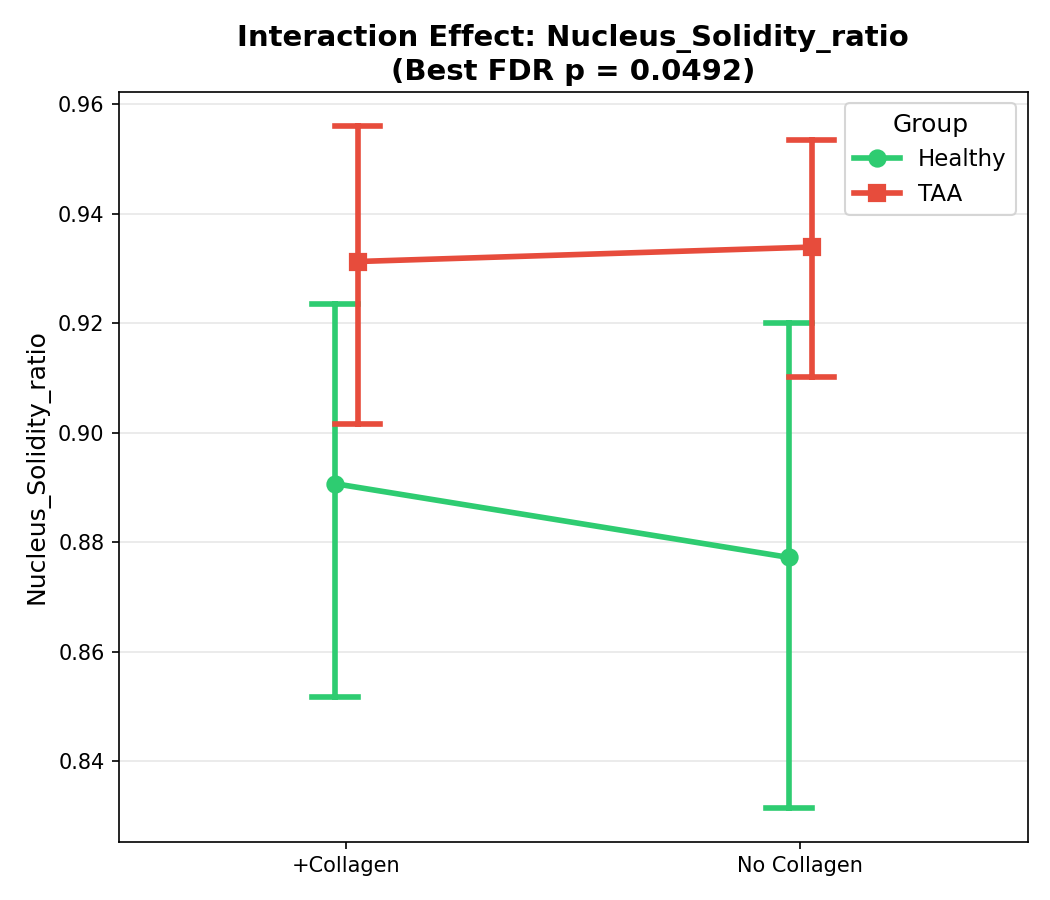
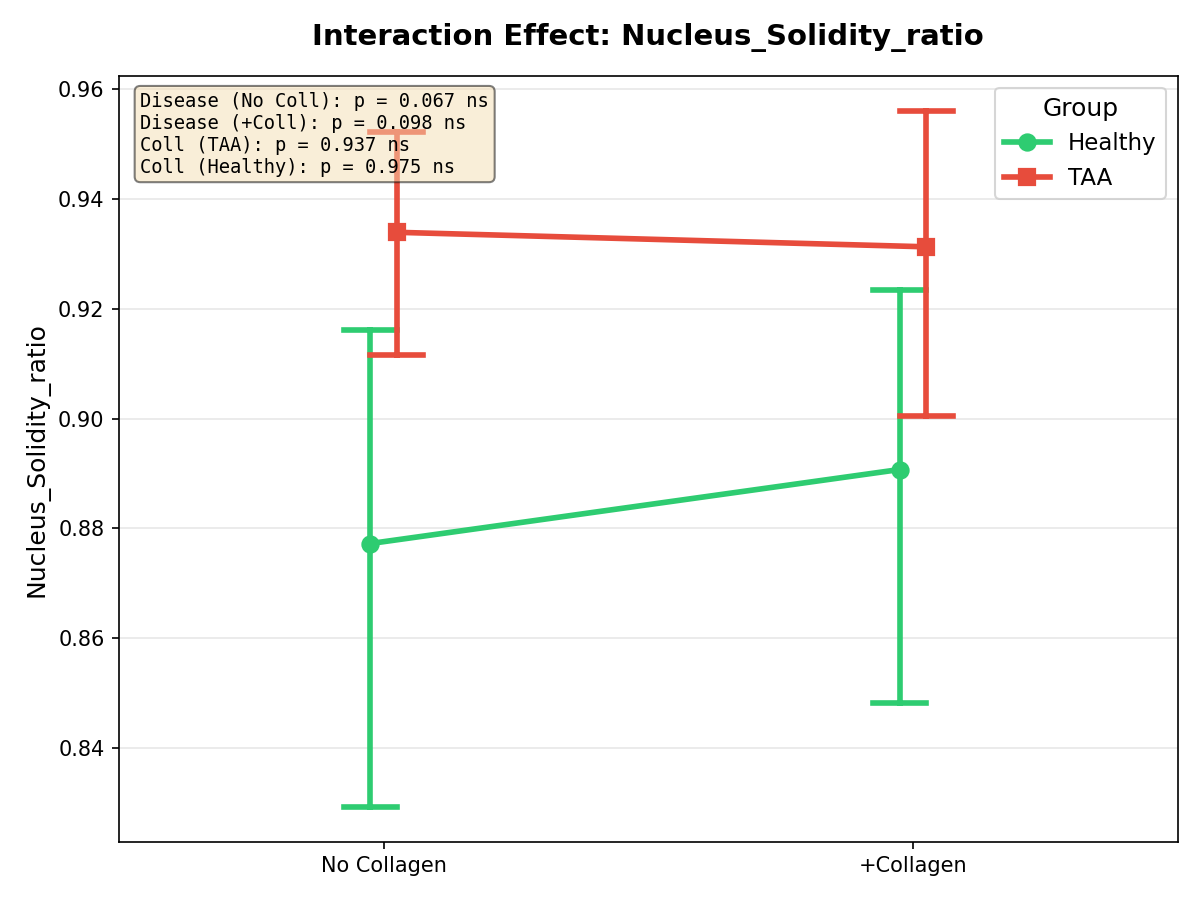
Add comprehensive interaction plots for all features with proper x-axis ordering and p-value annotations

Changed region(s): [[0.0, 0.0, 1.0, 0.9333], [0.701, 0.9333, 0.8229, 0.9956], [0.2743, 0.9333, 0.3657, 0.9956]]

diff --git a/src/analysis/src/analysis/pairwiseComparison.py b/src/analysis/src/analysis/pairwiseComparison.py
@@ -416,25 +416,19 @@ def main():
         plt.savefig(f'{OUTPUT_DIR}/rescue_boxplots.png', dpi=300)
         print(f"\nSaved: {OUTPUT_DIR}/rescue_boxplots.png")
 
-    # 10. Generate detailed interaction plots for all significant features
+    # 10. Generate detailed interaction plots for ALL features
     print(f"\n{'='*80}")
-    print("GENERATING INTERACTION PLOTS")
+    print("GENERATING INTERACTION PLOTS FOR ALL FEATURES")
     print(f"{'='*80}")
     
     # Create directory for plots
     plots_dir = os.path.join(OUTPUT_DIR, 'interaction_plots')
     os.makedirs(plots_dir, exist_ok=True)
     
-    # Get all unique significant features across all comparisons
-    all_sig_features = set()
-    for res in all_results:
-        sigs = res[res['Significant']]['Feature'].tolist()
-        all_sig_features.update(sigs)
-    
-    print(f"Generating plots for {len(all_sig_features)} unique significant features...")
+    # Plot ALL features (not just significant ones)
+    print(f"Generating plots for all {len(feature_cols)} features...")
     
     # Prepare data for interaction plotting
-    # We need a clean DataFrame with Disease and Collagen columns
     plot_df = df.copy()
     
     # Ensure Collagen_Status is cleaner for plotting
@@ -444,13 +438,33 @@ def main():
     })
     
     # Define order and palette
-    collagen_order = ['+Collagen', 'No Collagen']  
+    collagen_order = ['No Collagen', '+Collagen']  
     disease_order = ['Healthy', 'TAA']
     palette = {'Healthy': '#2ECC71', 'TAA': '#E74C3C'}  # Green vs Red
     
-    for feature in all_sig_features:
+    def format_pvalue(p):
+        """Format p-value in scientific paper style."""
+        if p < 0.001:
+            return "p < 0.001"
+        elif p < 0.01:
+            return f"p = {p:.3f}"
+        else:
+            return f"p = {p:.3f}"
+    
+    def get_significance_stars(p):
+        """Return significance stars."""
+        if p < 0.001:
+            return "***"
+        elif p < 0.01:
+            return "**"
+        elif p < 0.05:
+            return "*"
+        else:
+            return "ns"
+    
+    for feature in feature_cols:
         try:
-            plt.figure(figsize=(7, 6))
+            fig, ax = plt.subplots(figsize=(8, 6))
             
             # Point plot with error bars (mean +/- ci)
             sns.pointplot(
@@ -465,26 +479,71 @@ def main():
                 capsize=0.1,
                 linestyles=['-', '-'],
                 errorbar=('ci', 95), # 95% confidence interval
-                dodge=True
+                dodge=True,
+                ax=ax
             )
             
-            # Find which comparison this feature was most significant in to add to title
-            # (Just finding the lowest p-value for context)
-            best_p = 1.0
-            best_comp = ""
+            # Collect p-values for all relevant comparisons for this feature
+            p_annotations = []
+            
             for res in all_results:
                 if feature in res['Feature'].values:
                     row = res[res['Feature'] == feature].iloc[0]
-                    if row['p_adjusted_FDR'] < best_p:
-                        best_p = row['p_adjusted_FDR']
-                        best_comp = res['Comparison'].iloc[0]
+                    comp_name = res['Comparison'].iloc[0]
+                    p_fdr = row['p_adjusted_FDR']
+                    is_sig = row['Significant']
+                    
+                    # Format based on comparison type
+                    if 'Disease Effect' in comp_name:
+                        if 'No Collagen' in comp_name:
+                            label = "Disease (No Coll)"
+                        else:
+                            label = "Disease (+Coll)"
+                    elif 'Collagen Effect' in comp_name:
+                        if 'Healthy' in comp_name:
+                            label = "Coll (Healthy)"
+                        else:
+                            label = "Coll (TAA)"
+                    else:
+                        label = comp_name
+                    
+                    p_str = format_pvalue(p_fdr)
+                    stars = get_significance_stars(p_fdr)
+                    p_annotations.append(f"{label}: {p_str} {stars}")
             
-            title_text = f"Interaction Effect: {feature}\n(Best FDR p = {best_p:.4f})"
-            plt.title(title_text, fontsize=14, fontweight='bold')
-            plt.ylabel(feature, fontsize=12)
-            plt.xlabel('')
-            plt.legend(title='Group', fontsize=11, title_fontsize=12)
-            plt.grid(axis='y', alpha=0.3)
+            # Add title with feature name
+            title_text = f"Interaction Effect: {feature}"
+            ax.set_title(title_text, fontsize=14, fontweight='bold', pad=15)
+            
+            # Add p-value annotations in a text box
+            if p_annotations:
+                # Join first 4 most important comparisons
+                # Priority: Disease (No Coll), Disease (+Coll), Coll (TAA), Coll (Healthy)
+                ordered_annotations = []
+                priority_order = ["Disease (No Coll)", "Disease (+Coll)", "Coll (TAA)", "Coll (Healthy)"]
+                
+                for priority in priority_order:
+                    for annot in p_annotations:
+                        if annot.startswith(priority):
+                            ordered_annotations.append(annot)
+                
+                # Add any remaining
+                for annot in p_annotations:
+                    if annot not in ordered_annotations:
+                        ordered_annotations.append(annot)
+                
+                # Show top 4
+                textstr = '\n'.join(ordered_annotations[:4])
+                
+                # Add text box
+                props = dict(boxstyle='round', facecolor='wheat', alpha=0.5)
+                ax.text(0.02, 0.98, textstr, transform=ax.transAxes, fontsize=9,
+                       verticalalignment='top', bbox=props, family='monospace')
+            
+            ax.set_ylabel(feature, fontsize=12)
+            ax.set_xlabel('')
+            ax.legend(title='Group', fontsize=11, title_fontsize=12, loc='upper right')
+            ax.grid(axis='y', alpha=0.3)
             
             # Save plot
             fname = f"{feature}_interaction.png"
@@ -496,7 +555,7 @@ def main():
             print(f"Could not plot {feature}: {e}")
             plt.close()
 
-    print(f"Saved {len(all_sig_features)} interaction plots to {plots_dir}")
+    print(f"Saved {len(feature_cols)} interaction plots to {plots_dir}")
 
 if __name__ == '__main__':
     main()
